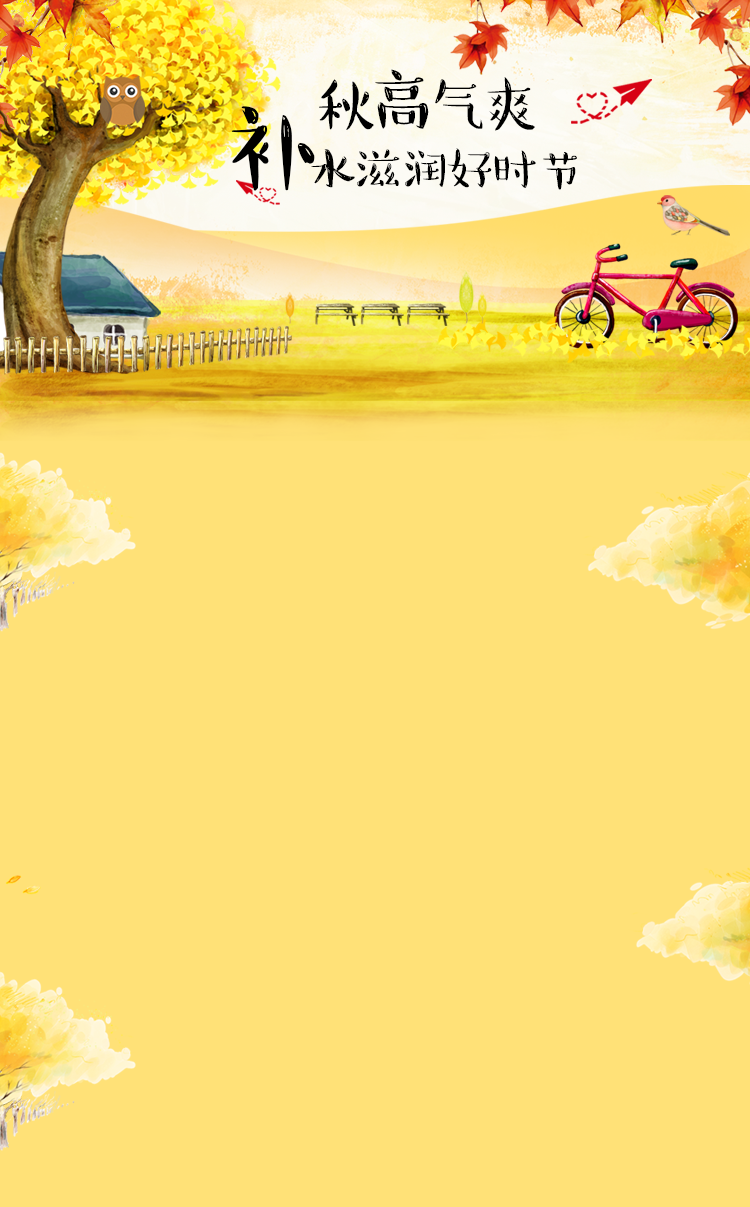
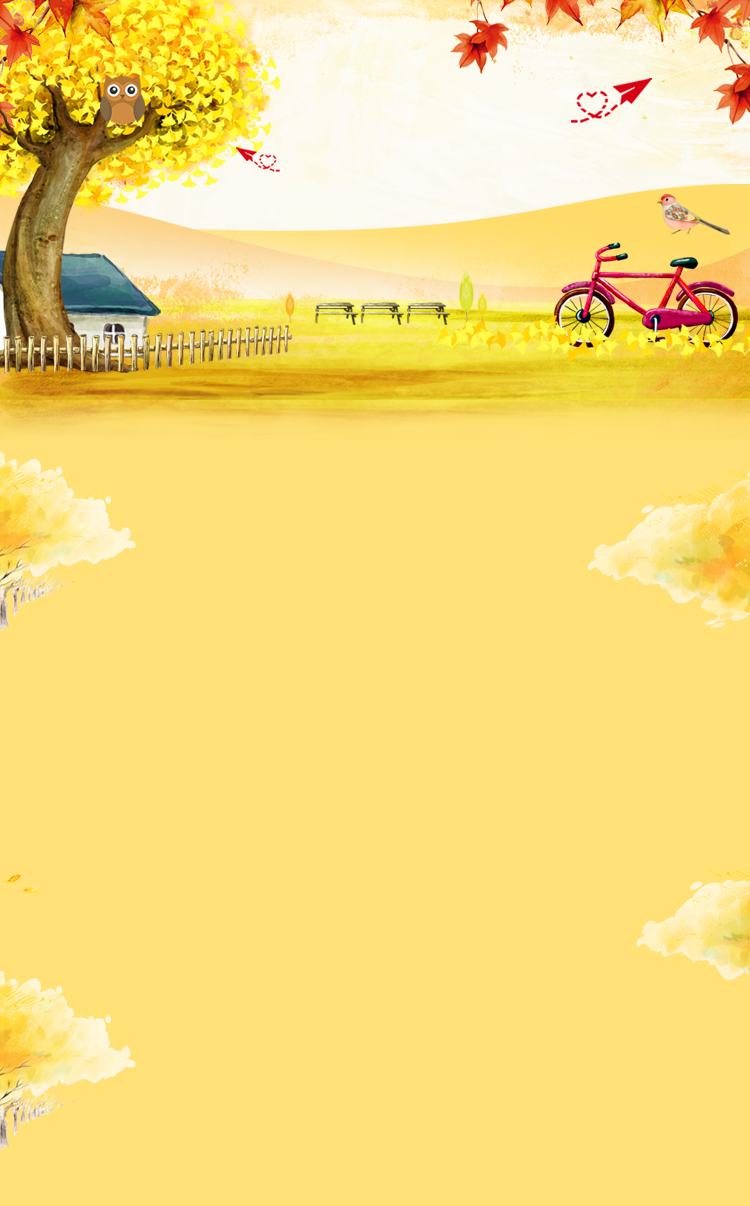
[Change] share friends and new share background pic

diff --git a/src/app/publicSystem/goodsShow/goodsShow.component.ts b/src/app/publicSystem/goodsShow/goodsShow.component.ts
@@ -32,6 +32,7 @@ export class GoodsShowComponent implements OnInit {
   }
 
   ngOnInit() {
+    this.share();
     this.goodsList = [];
     this.appService.postData(this.appProperties.machineInfoGetCompanyIdUrl + urlParse(window.location.search)['vmCode'], '').subscribe(
       data2 => {
@@ -78,7 +79,7 @@ export class GoodsShowComponent implements OnInit {
     window.location.href = 'https://mp.weixin.qq.com/mp/profile_ext?action=home&__biz=MzU0NzQ4MTY0Mg==&scene=124#wechat_redirect';
   }
   share() {
-    this.appService.postAliData(this.appProperties.wechatShareInfoUrl + '?url=http://sms.youshuidaojia.com/main',
+    this.appService.postAliData(this.appProperties.wechatShareInfoUrl + '?url=' + window.location.href,
       '', this.token).subscribe(
       data => {
         console.log(data);
@@ -97,35 +98,38 @@ export class GoodsShowComponent implements OnInit {
         });
         wx.ready(function () {
           console.log(123);
-          wx.ready(function () {   // 需在用户可能点击分享按钮前就先调用
-            wx.updateAppMessageShareData({
-              title: '优水到家', // 分享标题
-              desc: '分享领取优惠', // 分享描述
-              link: '', // 分享链接，该链接域名或路径必须与当前页面对应的公众号JS安全域名一致
-              imgUrl: '../../../assets/main/logo.png', // 分享图标
-            }, function (res) {
-              // 这里是回调函数
-              console.log(res);
-            });
-          });
-          //   const shareData = {
-          //     title: '标题',
-          //     desc: '简介', // 这里请特别注意是要去除html
-          //     link: '链接',
-          //     imgUrl: '题图',
-          //     success: function () {
-          //       // 用户确认分享后执行的回调函数
-          //       console.log('success');
-          //     },
-          //     cancel: function () {
-          //       // 用户取消分享后执行的回调函数
-          //       console.log('cancel');
-          //     }
-          //   };
-          //   wx.onMenuShareAppMessage(shareData);
-          //   // wx.onMenuShareTimeline(shareData);
-          //   // wx.onMenuShareQQ(shareData);
-          //   // wx.onMenuShareWeibo(shareData);
+          // wx.ready(function () {   // 需在用户可能点击分享按钮前就先调用
+          //   wx.updateAppMessageShareData({
+          //     title: '优水到家', // 分享标题
+          //     desc: '分享领取优惠', // 分享描述
+          //     link: '', // 分享链接，该链接域名或路径必须与当前页面对应的公众号JS安全域名一致
+          //     imgUrl: '../../../assets/main/logo.png', // 分享图标
+          //   }, function (res) {
+          //     // 这里是回调函数
+          //     console.log(res);
+          //   });
+          // });
+          const shareData = {
+            title: '优水到家',
+            desc: '分享领取优惠', // 这里请特别注意是要去除html
+            link: 'http://sms.youshuidaojia.com/share',
+            imgUrl: 'http://119.23.233.123:6662/ys_admin/companyLogo/20181008_142714.png',
+            success: function () {
+              // 用户确认分享后执行的回调函数
+              console.log('success');
+            },
+            cancel: function () {
+              // 用户取消分享后执行的回调函数
+              console.log('cancel');
+            }
+          };
+          wx.onMenuShareAppMessage(shareData);
+          // wx.onMenuShareTimeline(shareData);
+          // wx.onMenuShareQQ(shareData);
+          // wx.onMenuShareWeibo(shareData);
+        });
+        wx.error(function (res) {
+          console.log(res);
         });
       },
       error2 => {

diff --git a/src/app/publicSystem/share/share.component.spec.ts b/src/app/publicSystem/share/share.component.spec.ts
@@ -1,0 +1,27 @@
+import { TestBed, async } from '@angular/core/testing';
+import { ShareComponent } from './share.component';
+describe('ShareComponent', () => {
+  beforeEach(async(() => {
+    TestBed.configureTestingModule({
+      declarations: [
+        ShareComponent
+      ],
+    }).compileComponents();
+  }));
+  it('should create the app', async(() => {
+    const fixture = TestBed.createComponent(ShareComponent);
+    const app = fixture.debugElement.componentInstance;
+    expect(app).toBeTruthy();
+  }));
+  it(`should have as title 'app'`, async(() => {
+    const fixture = TestBed.createComponent(ShareComponent);
+    const app = fixture.debugElement.componentInstance;
+    expect(app.title).toEqual('app');
+  }));
+  it('should render title in a h1 tag', async(() => {
+    const fixture = TestBed.createComponent(ShareComponent);
+    fixture.detectChanges();
+    const compiled = fixture.debugElement.nativeElement;
+    expect(compiled.querySelector('h1').textContent).toContain('Welcome to app!');
+  }));
+});

diff --git a/src/app/publicSystem/share/share.component.ts b/src/app/publicSystem/share/share.component.ts
@@ -8,11 +8,11 @@ declare const wx: any;
 
 import * as $ from 'jquery';
 @Component({
-  selector: 'app-Test',
-  templateUrl: './test.component.html',
-  styleUrls: ['./test.component.css']
+  selector: 'app-Share',
+  templateUrl: './share.component.html',
+  styleUrls: ['./share.component.css']
 })
-export class TestComponent implements OnInit {
+export class ShareComponent implements OnInit {
   private token: string;
   constructor(private router: Router,
               private appProperties: AppProperties,
@@ -57,7 +57,7 @@ export class TestComponent implements OnInit {
           const shareData = {
             title: '优水到家',
             desc: '分享领取优惠', // 这里请特别注意是要去除html
-            link: 'http://sms.youshuidaojia.com/share',
+            link: window.location.href,
             imgUrl: 'http://119.23.233.123:6662/ys_admin/companyLogo/20181008_142714.png',
             success: function () {
               // 用户确认分享后执行的回调函数

diff --git a/src/app/alipay/main/main.component.html b/src/app/alipay/main/main.component.html
@@ -7,10 +7,10 @@
       <!--<p *ngIf="isFiveDoor" style="font-weight: 600">联业智能</p>-->
       <img (click)="vmLogin(1)" src="../../../assets/main/logos.png" alt="..."
            class="rounded-circle">
-      <!--<img [hidden]="otherCompany" (click)="vmLogin(0)" src="../../../assets/main/guoqing.png" alt="..."-->
-           <!--class="rounded-circle-center">-->
-      <!--<img [hidden]="youshuiCompany" (click)="vmLogin(2)" src="../../../assets/main/69.png" alt="..."-->
-           <!--class="rounded-circle-sixnight">-->
+      <img [hidden]="otherCompany" (click)="vmLogin(0)" src="../../../assets/main/guoqing.png" alt="..."
+           class="rounded-circle-center">
+      <img [hidden]="youshuiCompany" (click)="vmLogin(2)" src="../../../assets/main/69.png" alt="..."
+           class="rounded-circle-sixnight">
       <br/>
       <p class="title">点击下面窗口开门买水</p>
     </div>

diff --git a/src/app/wechat/main/main.component.html b/src/app/wechat/main/main.component.html
@@ -7,10 +7,10 @@
       <!--<p *ngIf="isFiveDoor" style="font-weight: 600">联业智能</p>-->
       <img (click)="vmLogin(1)" src="../../../assets/main/logos.png" alt="..."
            class="rounded-circle">
-      <!--<img [hidden]="otherCompany" (click)="vmLogin(0)" src="../../../assets/main/guoqing.png" alt="..."-->
-           <!--class="rounded-circle-center">-->
-      <!--<img [hidden]="youshuiCompany" (click)="vmLogin(2)" src="../../../assets/main/69.png" alt="..."-->
-           <!--class="rounded-circle-sixnight">-->
+      <img [hidden]="otherCompany" (click)="vmLogin(0)" src="../../../assets/main/guoqing.png" alt="..."
+           class="rounded-circle-center">
+      <img [hidden]="youshuiCompany" (click)="vmLogin(2)" src="../../../assets/main/69.png" alt="..."
+           class="rounded-circle-sixnight">
       <br/>
       <p class="title">点击下面窗口开门买水</p>
     </div>

diff --git a/src/app/wechat/detail/detail.component.ts b/src/app/wechat/detail/detail.component.ts
@@ -146,7 +146,7 @@ export class DetailComponent implements OnInit , AfterViewChecked {
   // 调用微信支付接口测试
   test(data, item) {
     wx.config({
-      debug: true,
+      debug: false,
       appId: data.config.appId,
       timestamp: data.config.timestamp,
       nonceStr: data.config.nonceStr,
@@ -157,7 +157,7 @@ export class DetailComponent implements OnInit , AfterViewChecked {
     });
     wx.ready(() => {
       wx.chooseWXPay({
-        debug: true,
+        debug: false,
         timestamp: data.payInfo.timeStamp, // 支付签名时间戳，注意微信jssdk中的所有使用timestamp字段均为小写。但最新版的支付后台生成签名使用的timeStamp字段名需大写其中的S字符
         nonceStr: data.payInfo.nonceStr, // 支付签名随机串，不长于 32 位
         package: data.payInfo.package,

diff --git a/src/app/publicSystem/goodsShow/goodsShow.component.html b/src/app/publicSystem/goodsShow/goodsShow.component.html
@@ -18,9 +18,9 @@
     <!--<button [hidden]="aliPay" (click)="follow()" class="am-button" style="background: #2CA825">点击关注</button>-->
     <img style="width: 300px;padding-bottom: 84px;opacity: 1" src="../../../assets/main/follow.png" alt="">
   </div>
-  <div class="am-button-wrap" [hidden]="flag === '3' || flag === '4'">
-    <button (click)="share()" class="am-button blue" >分享</button>
-  </div>
+  <!--<div class="am-button-wrap" [hidden]="flag === '3' || flag === '4'">-->
+    <!--<button (click)="share()" class="am-button blue" >分享</button>-->
+  <!--</div>-->
   <div class="am-button-wrap">
     <button (click)="exit()" class="am-button blue" >直接退出</button>
   </div>

diff --git a/src/app/publicSystem/share/share.module.ts b/src/app/publicSystem/share/share.module.ts
@@ -1,0 +1,24 @@
+import { NgModule } from '@angular/core';
+import { FormsModule } from '@angular/forms';
+import { HttpClientModule } from '@angular/common/http';
+import { CommonModule } from '@angular/common';
+import { ShareComponent } from './share.component';
+import { ShareRoutingModule } from './share-routing.module';
+import {AppService} from '../../app-service';
+import {AppProperties} from '../../app.properties';
+
+
+@NgModule({
+  declarations: [
+    ShareComponent,
+  ],
+  imports: [
+    FormsModule,
+    HttpClientModule,
+    CommonModule,
+    ShareRoutingModule
+  ],
+  providers: [AppService, AppProperties],
+  bootstrap: [ShareComponent]
+})
+export class ShareModule { }

diff --git a/src/app/app-routing.module.ts b/src/app/app-routing.module.ts
@@ -26,6 +26,7 @@ const routes: Routes = [/*
     { path: 'addMain', loadChildren: './publicSystem/addMain/addMain.module#AddMainModule' },
     { path: 'comment', loadChildren: './publicSystem/comment/comment.module#CommentModule' },
     { path: 'goodsShow', loadChildren: './publicSystem/goodsShow/goodsShow.module#GoodsShowModule' },
+    { path: 'share', loadChildren: './publicSystem/share/share.module#ShareModule' },
     { path: 'rotate', loadChildren: './publicSystem/rotate/rotate.module#RotateModule' },
 ];
 

diff --git a/src/app/publicSystem/addMain/addMain.component.html b/src/app/publicSystem/addMain/addMain.component.html
@@ -5,7 +5,7 @@
     <div class="logo">
       <!--<img *ngIf="isFiveDoor" src="../../../assets/main/lianye.png" alt="..." class="lianye-logo">-->
       <!--<p *ngIf="isFiveDoor" style="font-weight: 600">联业智能</p>-->
-      <img src="../../../assets/main/logostou.png" alt="..." class="rounded-circle">
+      <img src="../../../assets/main/guoqing.png" alt="..." class="rounded-circle">
       <br>
       <p class="title">补货人员补水系统</p>
     </div>

diff --git a/src/app/publicSystem/share/share-routing.module.ts b/src/app/publicSystem/share/share-routing.module.ts
@@ -1,0 +1,14 @@
+import { NgModule } from '@angular/core';
+import { Routes, RouterModule } from '@angular/router';
+import {ShareComponent} from './share.component';
+
+const routes: Routes = [
+    {path: '', component: ShareComponent}
+    // { path: 'main', loadChildren: './system/common/main/main.module#MainModule' },
+];
+
+@NgModule({
+    imports: [RouterModule.forChild(routes)],
+    exports: [RouterModule]
+})
+export class ShareRoutingModule {}

diff --git a/src/app/alipay/main/main.component.css b/src/app/alipay/main/main.component.css
@@ -29,7 +29,7 @@
   border-radius: 50%;
 }
 .rounded-circle-center{
-  margin-top: 14px;
+  top: 10%;
   position: absolute;
   left: 28%;
   width: 150px;
@@ -37,6 +37,7 @@
 .rounded-circle-sixnight{
   position: absolute;
   left: 28%;
+  top: 10%;
   width: 150px;
 }
 .rounded-circle{
